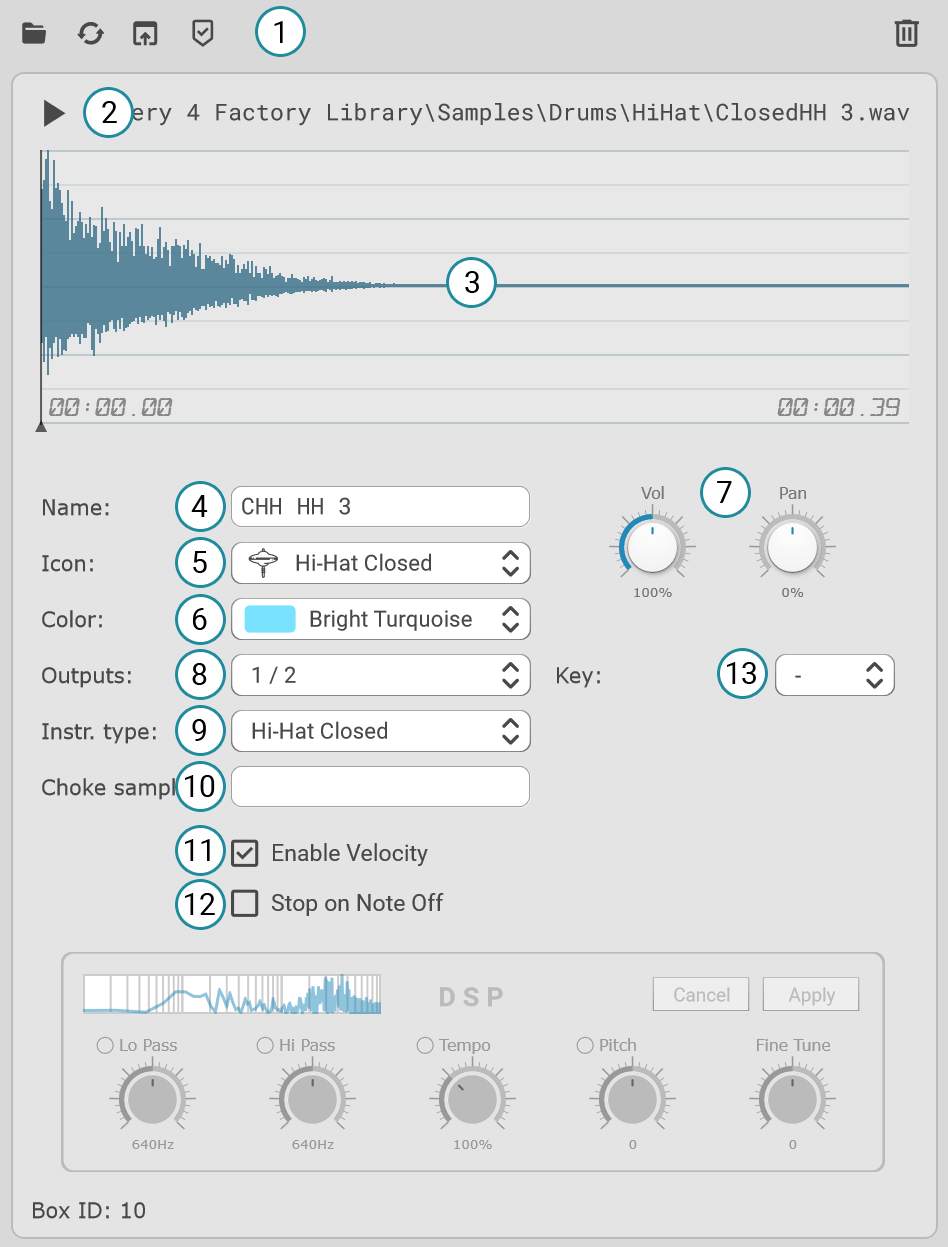
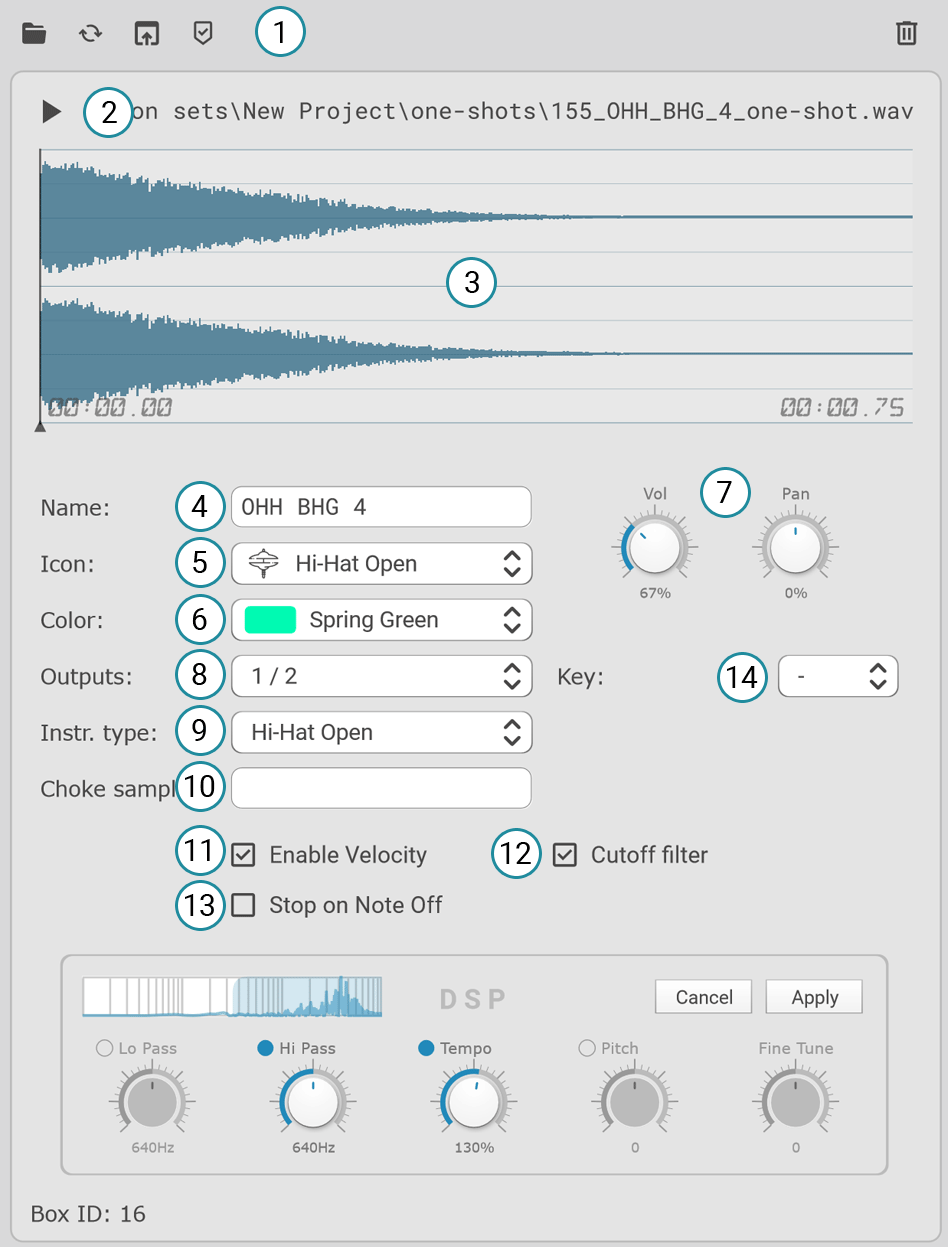
feat: add cutoff filter functionality to sample playback for enhanced audio control

diff --git a/src/seed/manual.ts b/src/seed/manual.ts
@@ -253,6 +253,7 @@ const sections = [
       <li>Instrument Type: Choose the instrument category (e.g., Snare, Guitar, Bass). Helps identify and filter clips in the Media Explorer.</li>
       <li>Choke Samples: Comma-separated <strong>Box IDs</strong> that will be silenced when this sample triggers (e.g., closed hi-hat stopping an open hi-hat).</li>
       <li>Enable Velocity: When enabled, volume varies based on MIDI strike force. Requires a velocity-sensitive controller.</li>
+      <li>Cutoff Filter: Applies a velocity-sensitive low-pass filter to the sample. Lower-velocity notes trigger a lower cutoff frequency, giving softer hits a warmer, more muted tone. Enable this together with Enable Velocity so softer hits become both quieter and darker, mimicking acoustic instruments.</li>
       <li>Stop on Note Off: When enabled, the sample stops immediately on mouse/pad release. When disabled (default), the sample plays to completion.</li>
       <li>Key: Choose the musical key or scale of the clip (e.g., C#, Dm). Useful for organizing clips by pitch.</li>
     </ol>

diff --git a/docs/AppDescription.md b/docs/AppDescription.md
@@ -300,6 +300,7 @@ A waveform (oscillogram) thumbnail of the audio file. During playback, a playhea
 - **Outputs** — audio output routing (available in DAW plugin mode). Supports up to 16 stereo pairs (32 channels total), labeled "1/2", "3/4", "5/6", etc.
 - **Choke Samples** — comma-separated list of Box IDs whose playback should be stopped when this sample is triggered (e.g., closed hi-hat stopping an open hi-hat).
 - **Enable Velocity** — checkbox. When enabled, sample volume varies based on MIDI velocity (strike force). Requires a velocity-sensitive MIDI controller (e.g., Launchpad X supports this; Launchpad Mini does not).
+- **Cutoff filter** — checkbox next to Enable Velocity. When enabled, sample playback uses a low-pass filter whose cutoff depends on each note's velocity. Lower-velocity notes use a lower cutoff. Combined with Enable Velocity, softer hits are both quieter and darker, producing more natural-sounding drums.
 - **Stop on Note Off** — checkbox (off by default). When enabled, the sample stops immediately when the mouse button or MIDI pad is released. When disabled, the sample plays to completion.
 - **Instrument Type** — dropdown for selecting the instrument category (e.g., Snare, Guitar, Bass).
 - **Key** — dropdown for selecting the musical key or scale of the clip (e.g., C#, Dm).
